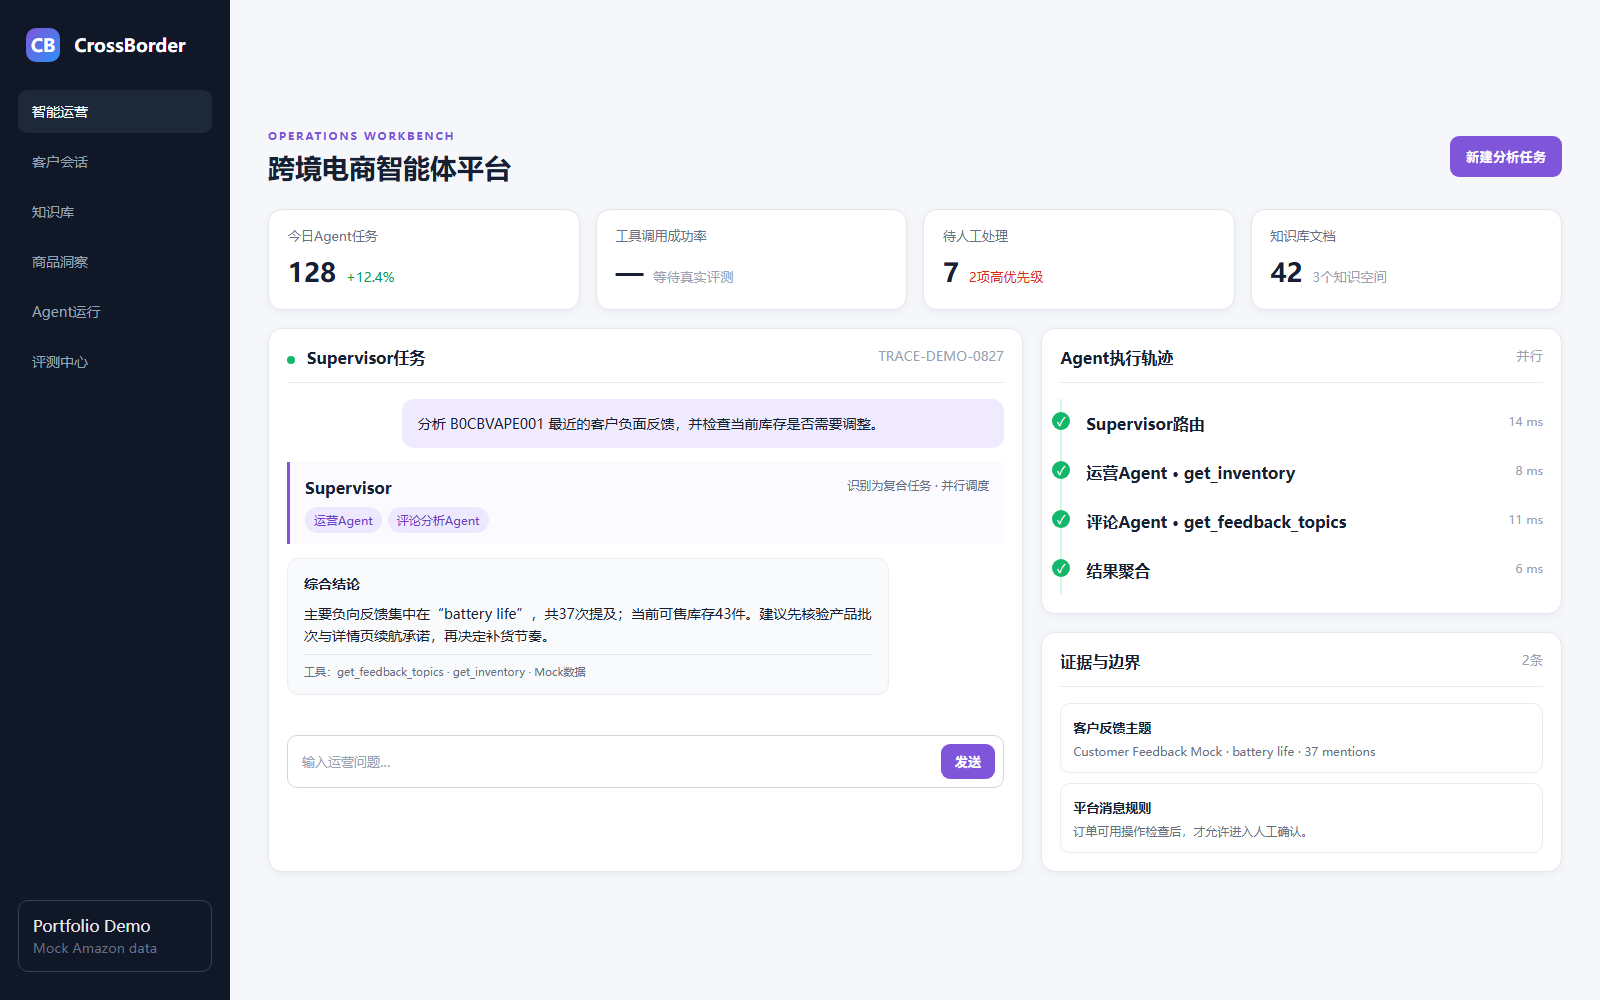
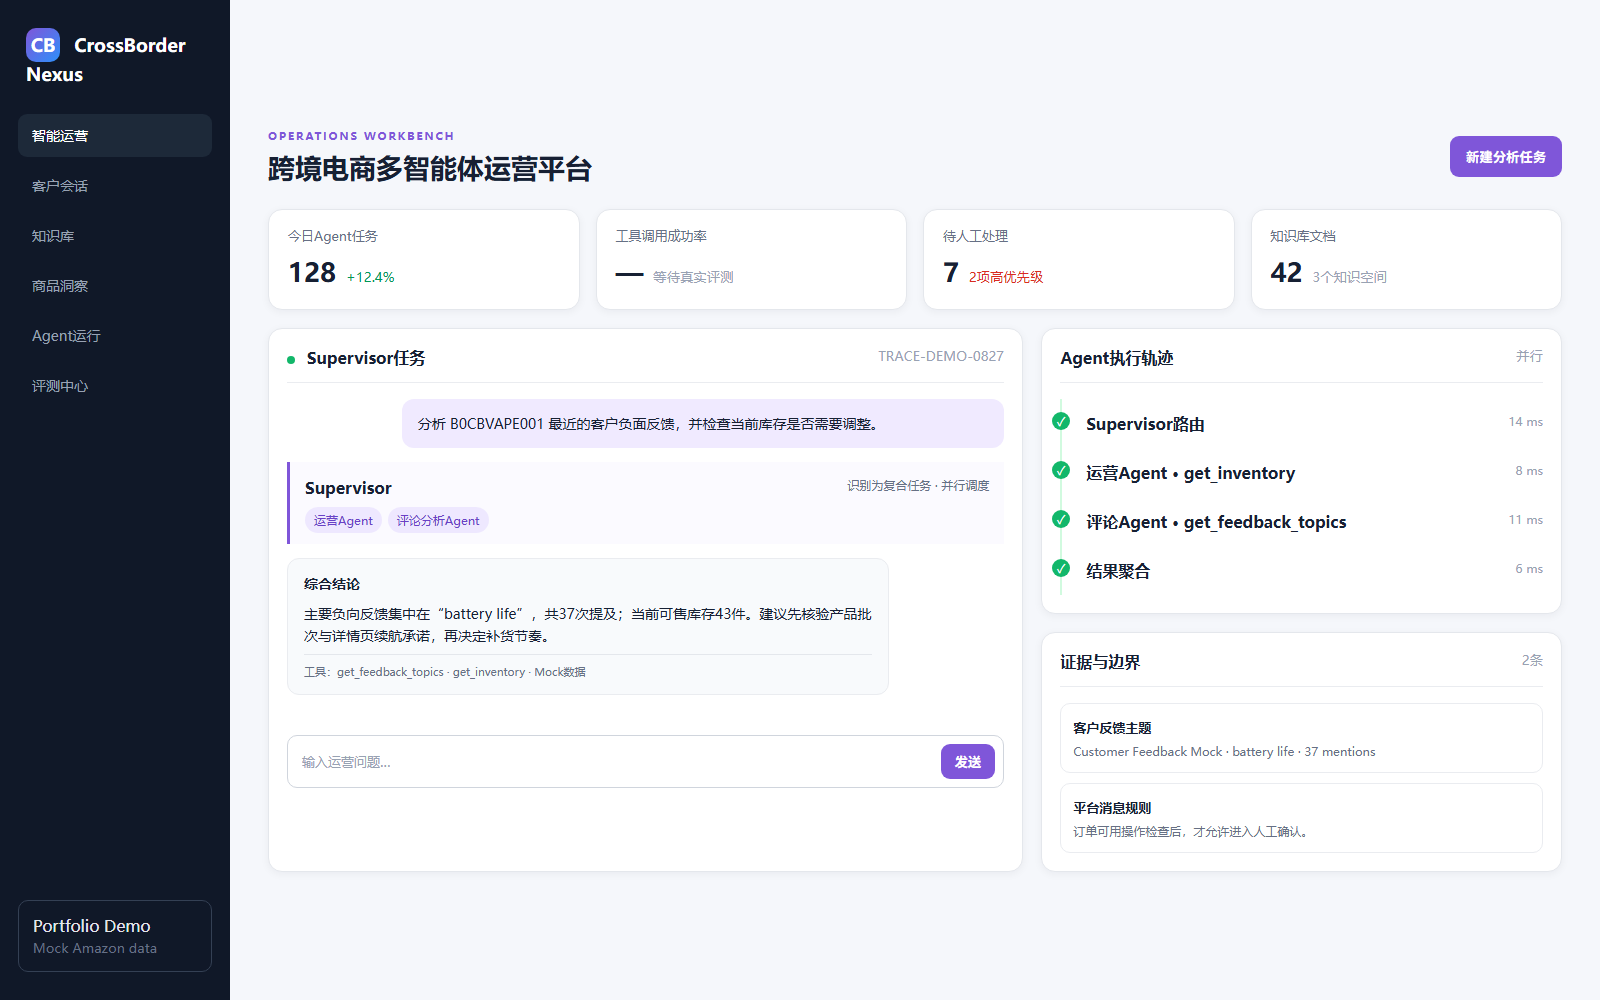
chore: rename project to CrossBorder Nexus

Changed region(s): [[0.0, 0.062, 0.0625, 0.403], [0.2188, 0.155, 0.375, 0.186]]

diff --git a/frontend/index.html b/frontend/index.html
@@ -3,19 +3,19 @@
   <head>
     <meta charset="UTF-8" />
     <meta name="viewport" content="width=device-width, initial-scale=1.0" />
-    <title>CrossBorder AI Agent Workbench</title>
+    <title>CrossBorder Nexus Workbench</title>
     <link rel="stylesheet" href="styles.css" />
   </head>
   <body>
     <aside>
-      <div class="brand"><span>CB</span> CrossBorder</div>
+      <div class="brand"><span>CB</span> CrossBorder Nexus</div>
       <nav>
         <a class="active">智能运营</a><a>客户会话</a><a>知识库</a><a>商品洞察</a><a>Agent运行</a><a>评测中心</a>
       </nav>
       <div class="demo">Portfolio Demo<br /><small>Mock Amazon data</small></div>
     </aside>
     <main>
-      <header><div><p class="eyebrow">OPERATIONS WORKBENCH</p><h1>跨境电商智能体平台</h1></div><button>新建分析任务</button></header>
+      <header><div><p class="eyebrow">OPERATIONS WORKBENCH</p><h1>跨境电商多智能体运营平台</h1></div><button>新建分析任务</button></header>
       <section class="metrics">
         <article><span>今日Agent任务</span><strong>128</strong><small class="up">+12.4%</small></article>
         <article><span>工具调用成功率</span><strong>—</strong><small>等待真实评测</small></article>

diff --git a/backend/app/main.py b/backend/app/main.py
@@ -9,7 +9,7 @@ from backend.app.models import ChatRequest, ChatResponse
 
 
 app = FastAPI(
-    title="CrossBorder AI Agent Platform",
+    title="CrossBorder Nexus Multi-Agent Operations Platform",
     version="0.1.0",
     description="Portfolio API. Amazon operations use mock data by default.",
 )

diff --git a/README.md b/README.md
@@ -1,10 +1,10 @@
-# CrossBorder 跨境电商 AI Agent 平台
+# CrossBorder Nexus 跨境电商多智能体运营平台
 
-CrossBorder 是一个面向作品集展示的跨境电商多 Agent 项目，围绕运营分析、客户服务、企业知识库、上下文记忆和可靠性评测组织代码。项目采用 Python、FastAPI、LangGraph、PostgreSQL、pgvector 与 Redis 的工程结构，并以可替换的 Amazon Provider 协议隔离外部平台能力。
+CrossBorder Nexus 是一个面向作品集展示的跨境电商多 Agent 运营平台，围绕运营分析、客户服务、企业知识库、上下文记忆和可靠性评测组织代码。项目采用 Python、FastAPI、LangGraph、PostgreSQL、pgvector 与 Redis 的工程结构，并以可替换的 Amazon Provider 协议隔离外部平台能力。
 
 > 当前仓库定位为 Portfolio Demo：代码结构、接口契约、样例数据、评测集和设计文档完整；默认使用 Mock Amazon 数据，不声称已连接生产店铺，也不把示例报告中的空指标冒充真实线上结果。
 
-![CrossBorder 运营工作台预览](docs/assets/workbench-preview.png)
+![CrossBorder Nexus 运营工作台预览](docs/assets/workbench-preview.png)
 
 ## 项目亮点
 

diff --git a/docs/project-brief.md b/docs/project-brief.md
@@ -2,7 +2,7 @@
 
 ## Users and problem
 
-CrossBorder is designed for cross-border e-commerce operators and support staff who currently switch between seller-platform data, policy documents, customer messages, and spreadsheets. The demo presents one workspace where an AI supervisor can route work to specialized agents while deterministic services enforce permissions and outbound-action rules.
+CrossBorder Nexus is designed for cross-border e-commerce operators and support staff who currently switch between seller-platform data, policy documents, customer messages, and spreadsheets. The demo presents one workspace where an AI supervisor can route work to specialized agents while deterministic services enforce permissions and outbound-action rules.
 
 ## Deliverable
 

diff --git a/THIRD_PARTY_NOTICES.md b/THIRD_PARTY_NOTICES.md
@@ -1,6 +1,6 @@
 # Third-party references and attribution
 
-CrossBorder is an independent portfolio integration project. The repository does not claim authorship of the reference projects listed below.
+CrossBorder Nexus is an independent portfolio integration project. The repository does not claim authorship of the reference projects listed below.
 
 ## Design references
 

diff --git a/docs/decisions/0001-independent-integration.md b/docs/decisions/0001-independent-integration.md
@@ -4,7 +4,7 @@ Date: 2026-08-27
 
 ## Decision
 
-Create a new MIT-licensed CrossBorder repository instead of renaming or mechanically merging an existing application.
+Create a new MIT-licensed CrossBorder Nexus repository instead of renaming or mechanically merging an existing application.
 
 ## Reasons
 

diff --git a/AGENTS.md b/AGENTS.md
@@ -1,4 +1,4 @@
-# CrossBorder Repository Instructions
+# CrossBorder Nexus Repository Instructions
 
 ## Project boundary
 
